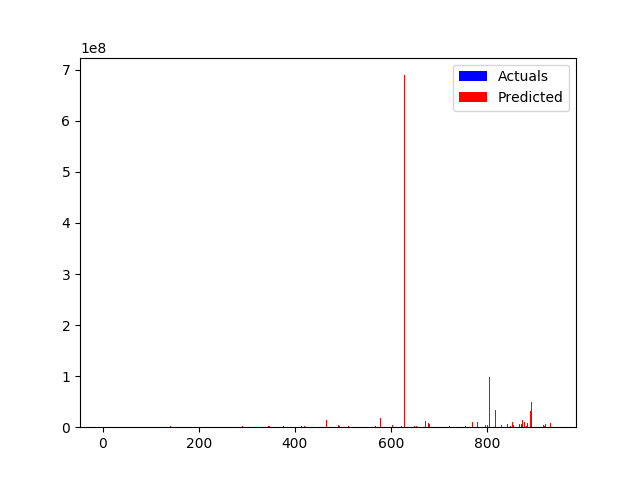
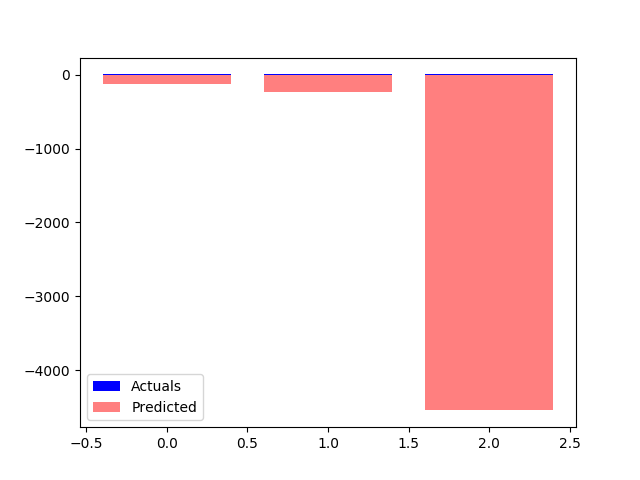
updated with new plot gen

diff --git a/gcn_model/model.py b/gcn_model/model.py
@@ -70,7 +70,7 @@ def main():
 	model = Net(11).to(device)
 	criterion = torch.nn.MSELoss()
 	optimizer = torch.optim.Adam(model.parameters(), lr=1E-3)
-	epoch = 2
+	epoch = 50
 	print("Starting Training:")
 	print("*"*40)
 	for i in range(epoch):
@@ -118,16 +118,28 @@ def main():
 	actuals = []
 	pred = []
 
+	# print(vals)
+
+	log = open("vals.log",'w')
 	for each in vals:
-		actuals.append(each[1])
-		pred.append(each[0])
+		print(each[0][0].item(), each[1][0].item())
+		
+		actuals.append(each[1][0])
+		pred.append(each[0][0])
+
+		log.write(str(each[0][0].item())+",")
+		log.write(str(each[1][0].item())+"\n")
+
+	log.close()
 	indices = np.arange(len(actuals))
 
-	plt.bar(indices, actuals, color="b", label="Actuals")
-	plt.bar(indices, pred, color="r", label="Predicted")
-
+	plt.bar(indices, actuals, color="b", label="Actuals", )
+	plt.bar(indices, pred, color="r", label="Predicted", alpha=0.5)
+	axes = plt.gca()
+	axes.set_ylim([-2,10])
 	plt.legend()
 	plt.savefig("actualsvpredicted.png", format="png")
+	# plt.show()
 
 
 
